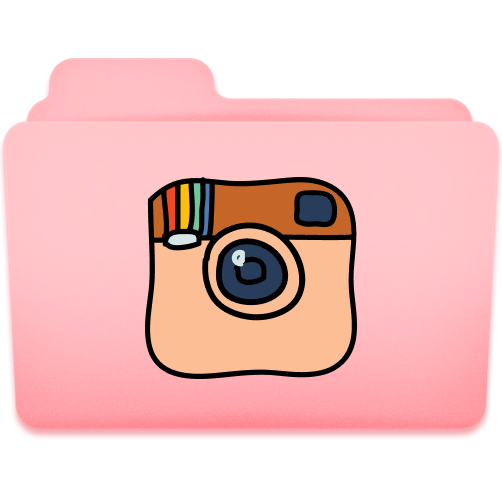
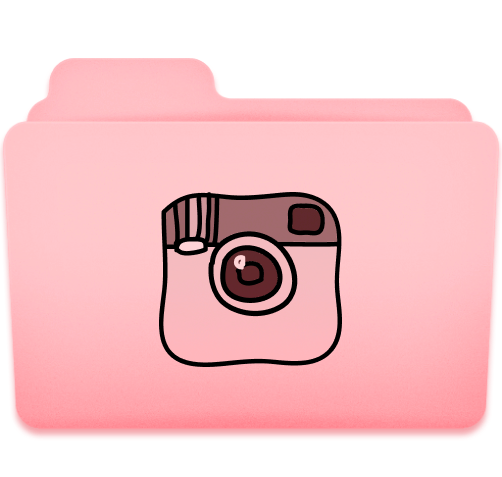
Positioning fixes + media queries

Changed region(s): [[0.2689, 0.3522, 0.7171, 0.7925]]

diff --git a/src/App.css b/src/App.css
@@ -1,32 +1,49 @@
 @import url('https://fonts.googleapis.com/css2?family=Shrikhand&display=swap');
 @import url('https://fonts.googleapis.com/css2?family=Balsamiq+Sans&display=swap');
 @import url('https://fonts.googleapis.com/css2?family=Comfortaa:wght@600&display=swap');
-
 body {
-  background: linear-gradient(272deg, #97f5dd, #b351da, #fc6dca);
+  background: linear-gradient(272deg, #f871c9, #b351da, #97f5dd);
   background-size: 600% 600%;
-
   -webkit-animation: gradientAnimation 20s ease infinite;
   -moz-animation: gradientAnimation 20s ease infinite;
   animation: gradientAnimation 20s ease infinite;
 }
 
 @-webkit-keyframes gradientAnimation {
-  0%{background-position:0% 51%}
-  50%{background-position:100% 50%}
-  100%{background-position:0% 51%}
-}
-@-moz-keyframes gradientAnimation {
-  0%{background-position:0% 51%}
-  50%{background-position:100% 50%}
-  100%{background-position:0% 51%}
-}
-@keyframes gradientAnimation {
-  0%{background-position:0% 51%}
-  50%{background-position:100% 50%}
-  100%{background-position:0% 51%}
+  0% {
+    background-position: 0% 51%
+  }
+  50% {
+    background-position: 100% 50%
+  }
+  100% {
+    background-position: 0% 51%
+  }
 }
 
+@-moz-keyframes gradientAnimation {
+  0% {
+    background-position: 0% 51%
+  }
+  50% {
+    background-position: 100% 50%
+  }
+  100% {
+    background-position: 0% 51%
+  }
+}
+
+@keyframes gradientAnimation {
+  0% {
+    background-position: 0% 51%
+  }
+  50% {
+    background-position: 100% 50%
+  }
+  100% {
+    background-position: 0% 51%
+  }
+}
 
 .App {
   text-align: center;
@@ -38,12 +55,7 @@ body {
   font-weight: 500;
   color: #fa8eea;
   -webkit-text-stroke: 1.5px #320094;
-  text-shadow:
-       3px 3px 0 #f1ff6e,
-     -1px -1px 0 #f1ff6e,  
-      1px -1px 0 #f1ff6e,
-      -1px 1px 0 #f1ff6e,    
-       1px 1px 0 #f1ff6e;
+  text-shadow: 3px 3px 0 #f1ff6e, -1px -1px 0 #f1ff6e, 1px -1px 0 #f1ff6e, -1px 1px 0 #f1ff6e, 1px 1px 0 #f1ff6e;
   min-height: 45vh;
   display: flex;
   flex-direction: column;
@@ -55,7 +67,7 @@ body {
 .contact-us {
   background: #f8f4e5;
   padding: 50px 100px;
-  border: 2px solid rgba(0,0,0,1);
+  border: 2px solid rgba(0, 0, 0, 1);
   box-shadow: 15px 15px 1px #f8a4eb, 15px 15px 1px 2px #000000;
   width: 197px;
   height: 130px;
@@ -70,27 +82,26 @@ body {
 h4 {
   font-family: 'Comfortaa', cursive;
   font-size: 18px;
-
 }
 
 input {
   width: 100%;
-    font-size: 10pt;
-    line-height: 13pt;
-    font-family: 'Fjalla One';
-    margin-bottom: 25pt;
-    border: none;
-    border-bottom: 4px solid rgba(0,0,0,1);
-    background: #f8f4e5;
-    min-width: 150px;
-    outline: none;
-    color: rgba(0,0,0,1);
+  font-size: 10pt;
+  line-height: 13pt;
+  font-family: 'Fjalla One';
+  margin-bottom: 25pt;
+  border: none;
+  border-bottom: 4px solid rgba(0, 0, 0, 1);
+  background: #f8f4e5;
+  min-width: 150px;
+  outline: none;
+  color: rgba(0, 0, 0, 1);
 }
-  
+
 input:focus {
   border-bottom: 5px solid #f8a4eb;
 }
-  
+
 button {
   display: block;
   margin: 0 auto;
@@ -100,28 +111,26 @@ button {
   letter-spacing: 2px;
   transition: .2s all ease-in-out;
   outline: none;
-  border: 1px solid rgba(0,0,0,1);
-  box-shadow: 3px 3px 1px #95a4ff, 3px 3px 1px 1px rgba(0,0,0,1);
+  border: 1px solid rgba(0, 0, 0, 1);
+  box-shadow: 3px 3px 1px #95a4ff, 3px 3px 1px 1px rgba(0, 0, 0, 1);
 }
 
 button:hover {
-    background: #97f5dd;
-    color: white;
-    border: 1px solid rgba(0,0,0,1);
-  }
+  background: #97f5dd;
+  color: white;
+  border: 1px solid rgba(0, 0, 0, 1);
+}
 
-  
 ::selection {
   background: #ffc8ff;
-}  
+}
 
 button img {
-    display: flex;
-    padding: inherit;
-    padding-top: 5px;
-    padding-bottom: 5px;
-    
-  }
+  display: flex;
+  padding: inherit;
+  padding-top: 5px;
+  padding-bottom: 5px;
+}
 
 .star {
   width: 350px;
@@ -132,11 +141,11 @@ button img {
 }
 
 .curl {
-    width: 350px;
-    position: absolute;
-    top: 99%;
-    left: 75%;
-    transform: translate(-61%, -21%);
+  width: 350px;
+  position: absolute;
+  top: 99%;
+  left: 75%;
+  transform: translate(-61%, -21%);
 }
 
 .waves {
@@ -148,19 +157,18 @@ button img {
 }
 
 .heart {
-  width: 30px;
-  position: absolute;
-  top: 203%;
-  left: 56%;
-  transform: translate(-60%, -20%);
+  width: 26px;
+  position: relative;
+  top: -7%;
+  left: 1%;
 }
 
 .polish {
   width: 300px;
-    position: absolute;
-    top: 36%;
-    left: 25%;
-    transform: translate(-60%, -20%);
+  position: absolute;
+  top: 44%;
+  left: 18%;
+  transform: translate(-60%, -20%);
 }
 
 .folder {
@@ -179,7 +187,56 @@ button img {
   transform: translate(-60%, -20%);
 }
 
-footer {
-  margin-top: 80px;
+.footer {
+  display: flex;
+  justify-content: center;
+  align-items: flex-end;
   font-family: 'Comfortaa', cursive;
+  height: 100px;
 }
+
+@media only screen and (max-width: 600px) {
+  .curl {
+    z-index: -10;
+    top: 56%;
+    left: 11%;
+  }
+
+  .contact-us {
+    max-width: 80px;
+  }
+
+  header p {
+    font-size: 36px; 
+  }
+
+  .waves {
+    display: none;
+  }
+
+  .folder {
+    display: none;
+  }
+
+  .polish {
+    top: 179%;
+    left: 20%;
+  }
+}
+
+/* @media only screen and (min-width: 768px) { 
+  .waves {
+    top: 88%;
+    left: 15%;
+    z-index: -10;
+  }
+  .polish {
+    top: 150%;
+    left: 20%;
+  }
+  .curl {
+    top: 172%;
+    left: 85%;
+    width: 246px;
+  }
+} */

diff --git a/src/App.js b/src/App.js
@@ -3,44 +3,46 @@ import './App.css';
 import Curl from './img/curl.png';
 import Waves from './img/gradient-waves.png';
 import Like from './img/heart.png';
-import Folder from './img/lightpinkfolder.png';
+import Folder from './img/lightpinkfolder1.png';
 import Polish from './img/purplepolish.png';
 
 
 function App() {
   return (
-      <div className="App">
-        
-        <header className="App-header"> 
+    <div className="App">
+
+      <header className="App-header">
         <img className="curl" src={Curl} alt="" />
         <img className="waves" src={Waves} alt="" />
         {/* <img className="star" src={Star} alt="" /> */}
-        <img className="heart" src={Like} alt="" />
+        
         <img className="polish" src={Polish} alt="" />
         <a href="https://www.instagram.com/whathecurl" target="_blank" rel="noopener noreferrer">
           <img title="Instagram" className="folder" src={Folder} alt="" />
         </a>
         {/* <img  className="folder2" src={Folder} alt="" /> */}
         <p>
-         Curated curl lifestyle and inspo <br />landing on your screen soon.
+          Curated curl lifestyle and inspo <br />landing on your screen soon.
         </p>
       </header>
-      
+
       <div className="contact-us">
         <form>
-        <h4>Make sure to get your pass</h4>
-        <label>
-          <input style={{fontFamily: "Comfortaa"}} placeholder="Email" type="email" name="customerEmail" />
-        </label>
+          <h4>Make sure to get your pass</h4>
+          <label>
+            <input style={{ fontFamily: "Comfortaa" }} placeholder="Email" type="email" name="customerEmail" />
+          </label>
           <button className="" type="submit" >
-          <img src="https://img.icons8.com/ios/28/000000/starred-ticket.png" alt=""/>
+            <img src="https://img.icons8.com/ios/28/000000/starred-ticket.png" alt="" />
           </button>
-         </form>
-       </div>
+        </form>
+      </div>
 
-       <footer>
-         <a style={{textDecoration: "none"}} href="https://www.instagram.com/whathecurl" target="_blank" rel="noopener noreferrer">@whathecurl</a>
-        
+      <footer>
+        <div className="footer">
+          <a style={{ textDecoration: "none" }} href="https://www.instagram.com/whathecurl" target="_blank" rel="noopener noreferrer">@whathecurl</a>
+          <img className="heart" src={Like} alt="" />
+        </div>
       </footer>
       {/* <img style={{width: "200px"}} src={Minhoca} alt="" /> */}
     </div>

diff --git a/public/index.html b/public/index.html
@@ -7,7 +7,7 @@
     <meta name="theme-color" content="#000000" />
     <meta
       name="description"
-      content="Web site created using create-react-app"
+      content="Where you find your hair's new styling"
     />
     <link rel="apple-touch-icon" href="%PUBLIC_URL%/logo192.png" />
     <!--
@@ -24,7 +24,7 @@
       work correctly both with client-side routing and a non-root public URL.
       Learn how to configure a non-root public URL by running `npm run build`.
     -->
-    <title>React App</title>
+    <title>What the Curl</title>
   </head>
   <body>
     <noscript>You need to enable JavaScript to run this app.</noscript>
